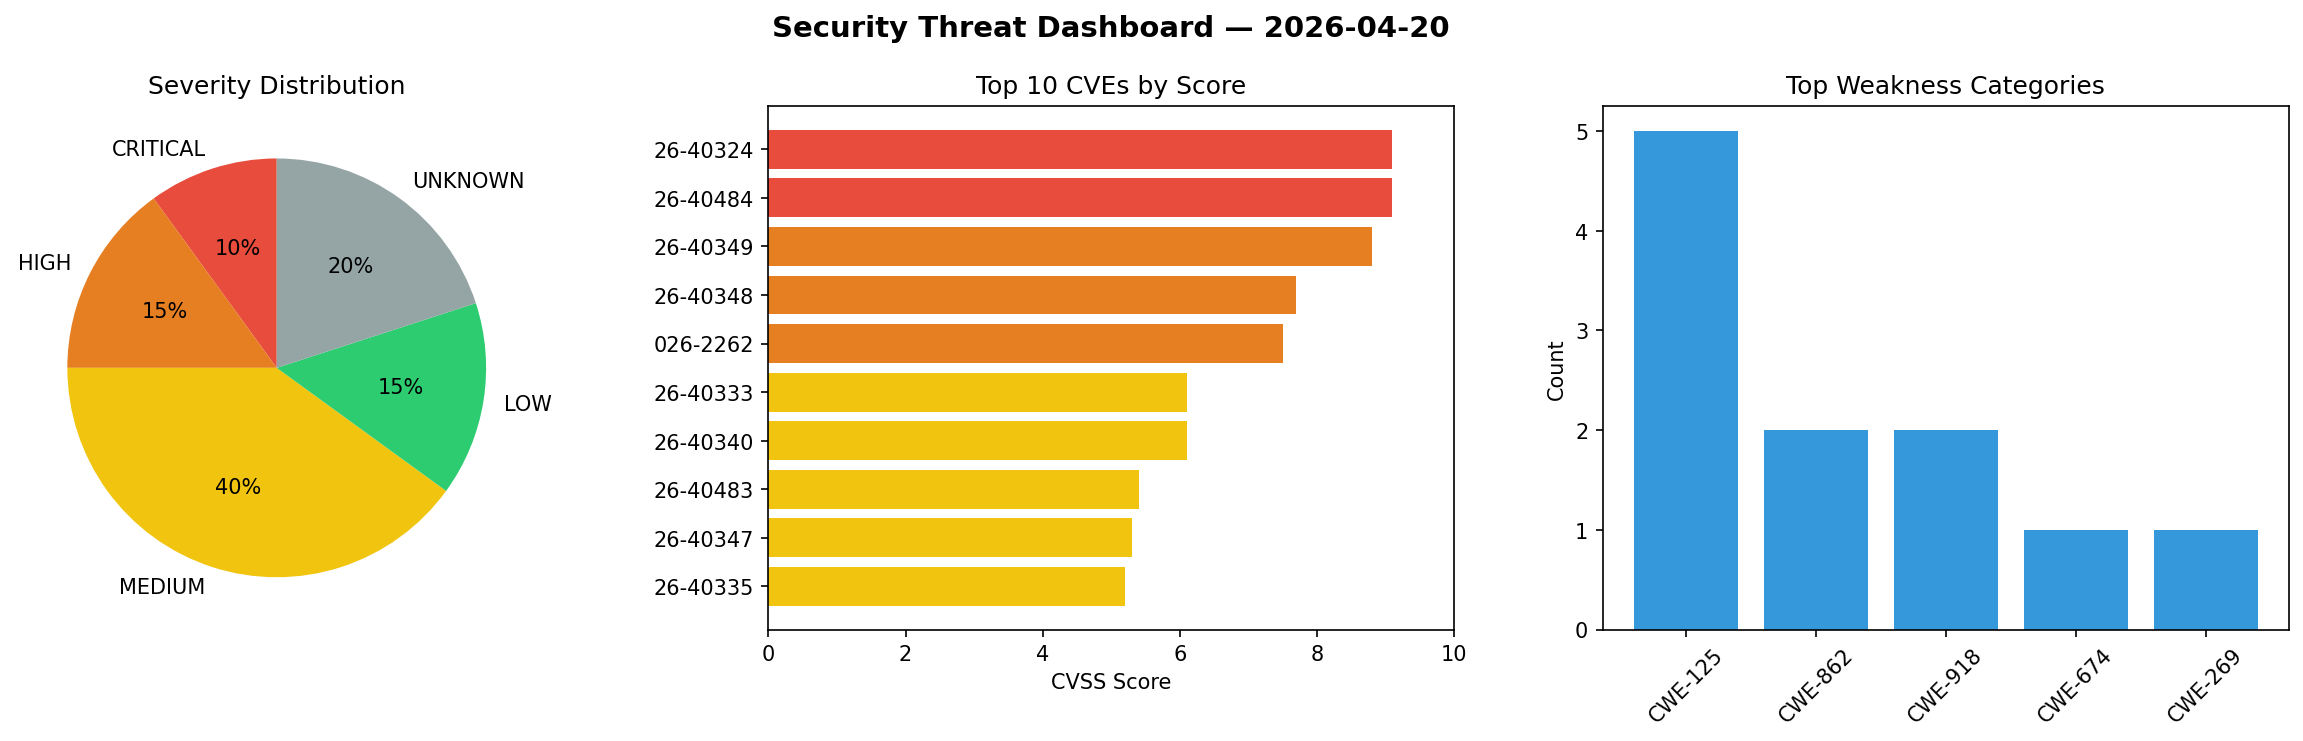
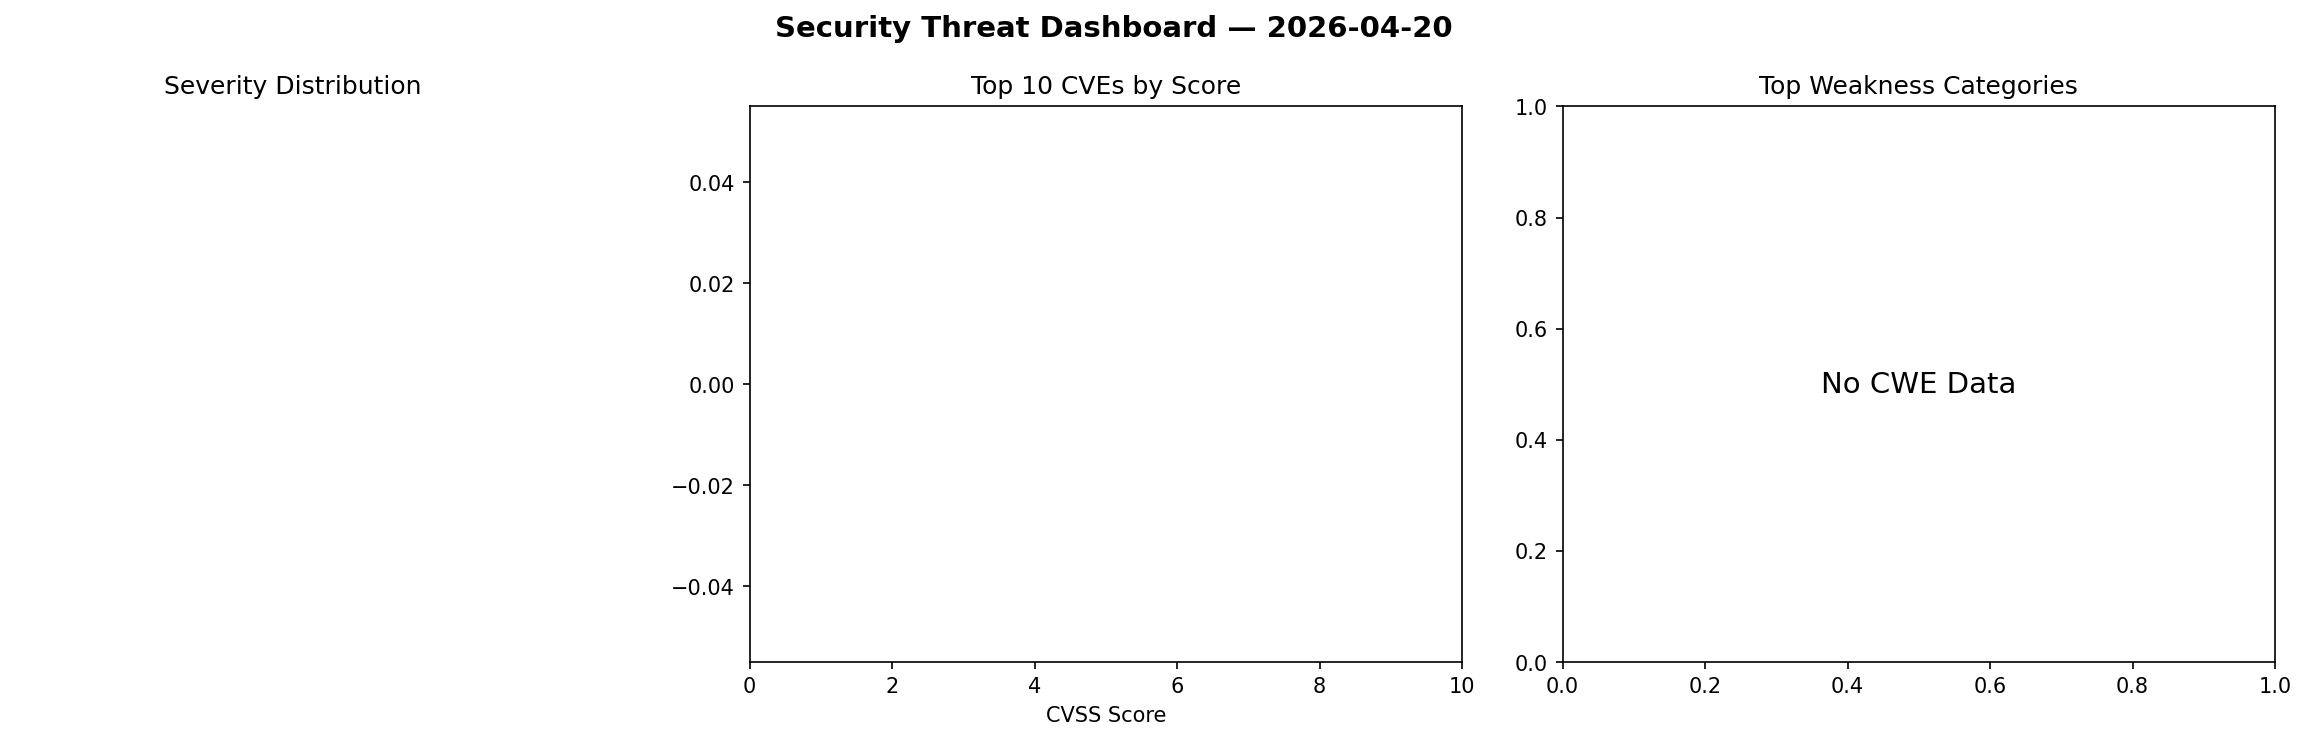
daily-experiments: security scan 2026-04-20T10:12

diff --git a/logs/2026-04-20.md b/logs/2026-04-20.md
@@ -1,6 +1,6 @@
 # Security Scan Report — 2026-04-20
 
-**Scan ID:** `1f77efeac8` | **CVEs:** 20 | **Threat Index:** 241.4
+**Scan ID:** `8bbc4cc155` | **CVEs:** 0 | **Threat Index:** 0
 
 ![Dashboard](2026-04-20_dashboard.png)
 
@@ -10,48 +10,18 @@
 
 | Metric | Value |
 |--------|-------|
-| Threat Index | 241.4 |
-| Critical CVEs | 2 |
-| CRITICAL | 2 |
-| HIGH | 3 |
-| MEDIUM | 8 |
-| LOW | 3 |
-| UNKNOWN | 4 |
+| Threat Index | 0 |
+| Critical CVEs | 0 |
 
 ## Delta vs Yesterday
 
 | Metric | Today | Yesterday | Change |
 |--------|-------|-----------|--------|
-| total_cves | 20 | 20 | ➡ 0.0% |
-| threat_index | 241.4 | 272.1 | 📉 -11.3% |
-| critical_count | 2 | 0 | ➡ 0% |
-
-## Top Weakness Categories
-
-| CWE | Count |
-|-----|-------|
-| CWE-125 | 5 |
-| CWE-862 | 2 |
-| CWE-918 | 2 |
-| CWE-674 | 1 |
-| CWE-269 | 1 |
+| total_cves | 0 | 20 | 📉 -100.0% |
+| threat_index | 0 | 272.1 | 📉 -100.0% |
+| critical_count | 0 | 0 | ➡ 0% |
 
 ## CVE Details
 
 | CVE ID | Score | Severity | Description |
 |--------|-------|----------|-------------|
-| CVE-2026-40324 | 9.1 | CRITICAL | Hot Chocolate is an open-source GraphQL server. Prior to versions 12.22.7, 13.9.... |
-| CVE-2026-40484 | 9.1 | CRITICAL | ChurchCRM is an open-source church management system. In versions prior to 7.2.0... |
-| CVE-2026-40349 | 8.8 | HIGH | Movary is a self hosted web app to track and rate a user's watched movies. Prior... |
-| CVE-2026-40348 | 7.7 | HIGH | Movary is a self hosted web app to track and rate a user's watched movies. Prior... |
-| CVE-2026-2262 | 7.5 | HIGH | The Easy Appointments plugin for WordPress is vulnerable to Sensitive Informatio... |
-| CVE-2026-40333 | 6.1 | MEDIUM | libgphoto2 is a camera access and control library. In versions up to and includi... |
-| CVE-2026-40340 | 6.1 | MEDIUM | libgphoto2 is a camera access and control library. Versions up to and including ... |
-| CVE-2026-40483 | 5.4 | MEDIUM | ChurchCRM is an open-source church management system. In versions prior to 7.2.0... |
-| CVE-2026-40347 | 5.3 | MEDIUM | Python-Multipart is a streaming multipart parser for Python. Versions prior to 0... |
-| CVE-2026-40335 | 5.2 | MEDIUM | libgphoto2 is a camera access and control library. Versions up to and including ... |
-| CVE-2026-40338 | 5.2 | MEDIUM | libgphoto2 is a camera access and control library. Versions up to and including ... |
-| CVE-2026-40339 | 5.2 | MEDIUM | libgphoto2 is a camera access and control library. Versions up to and including ... |
-| CVE-2026-40337 | 5.1 | MEDIUM | The Sentry kernel is a high security level micro-kernel implementation made for ... |
-| CVE-2026-40334 | 3.5 | LOW | libgphoto2 is a camera access and control library. In versions up to and includi... |
-| CVE-2026-40341 | 3.5 | LOW | libgphoto2 is a camera access and control library. In versions up to and includi... |
